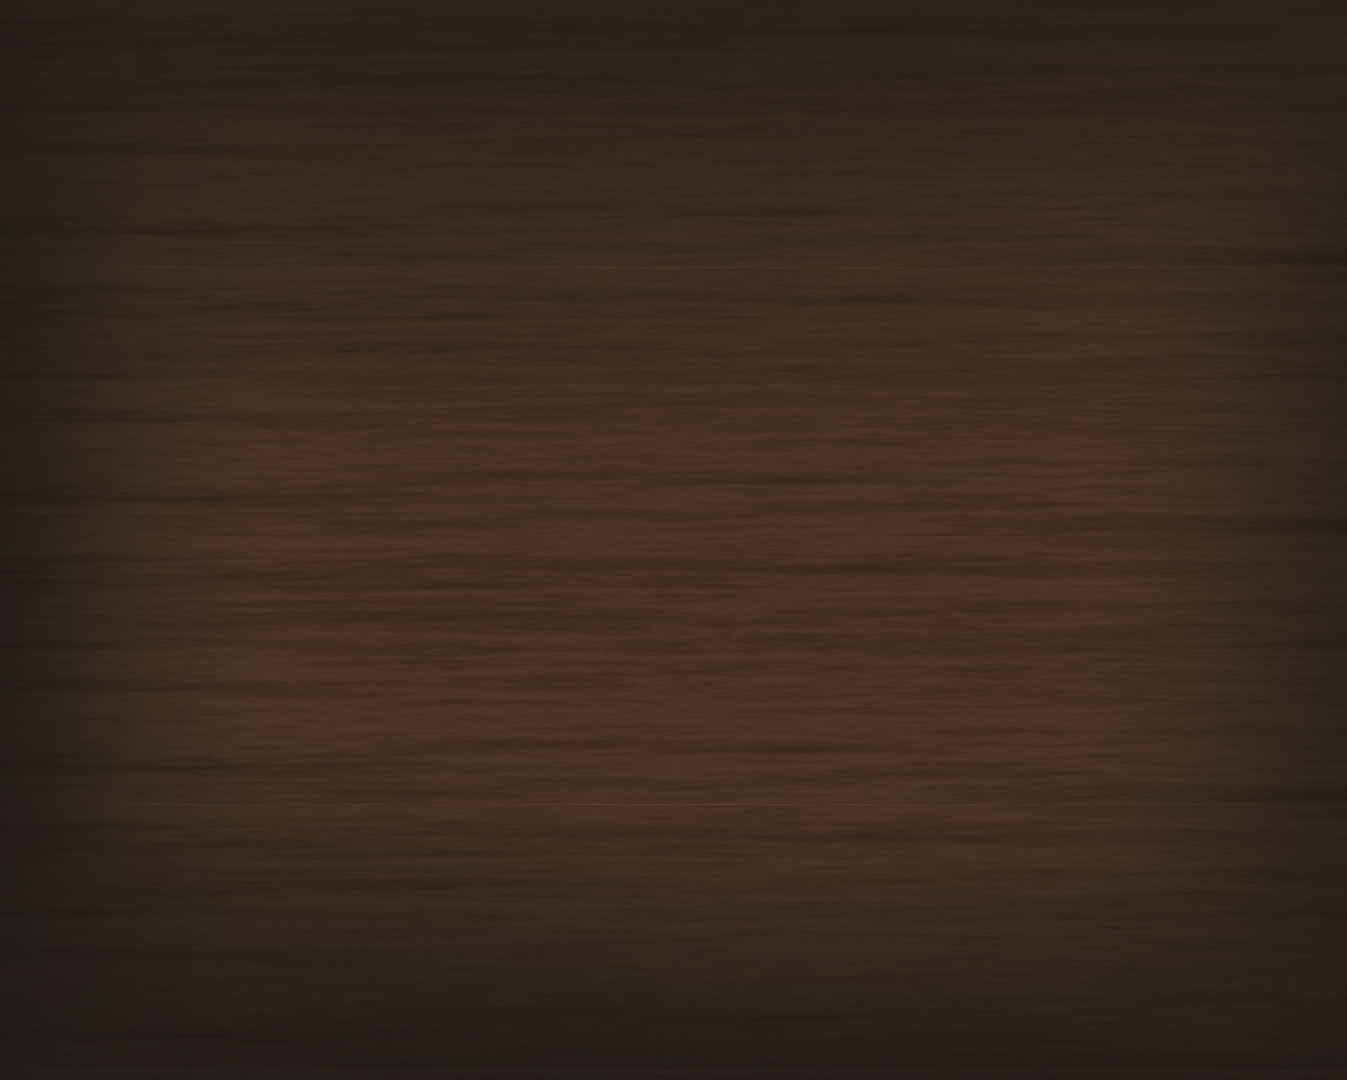
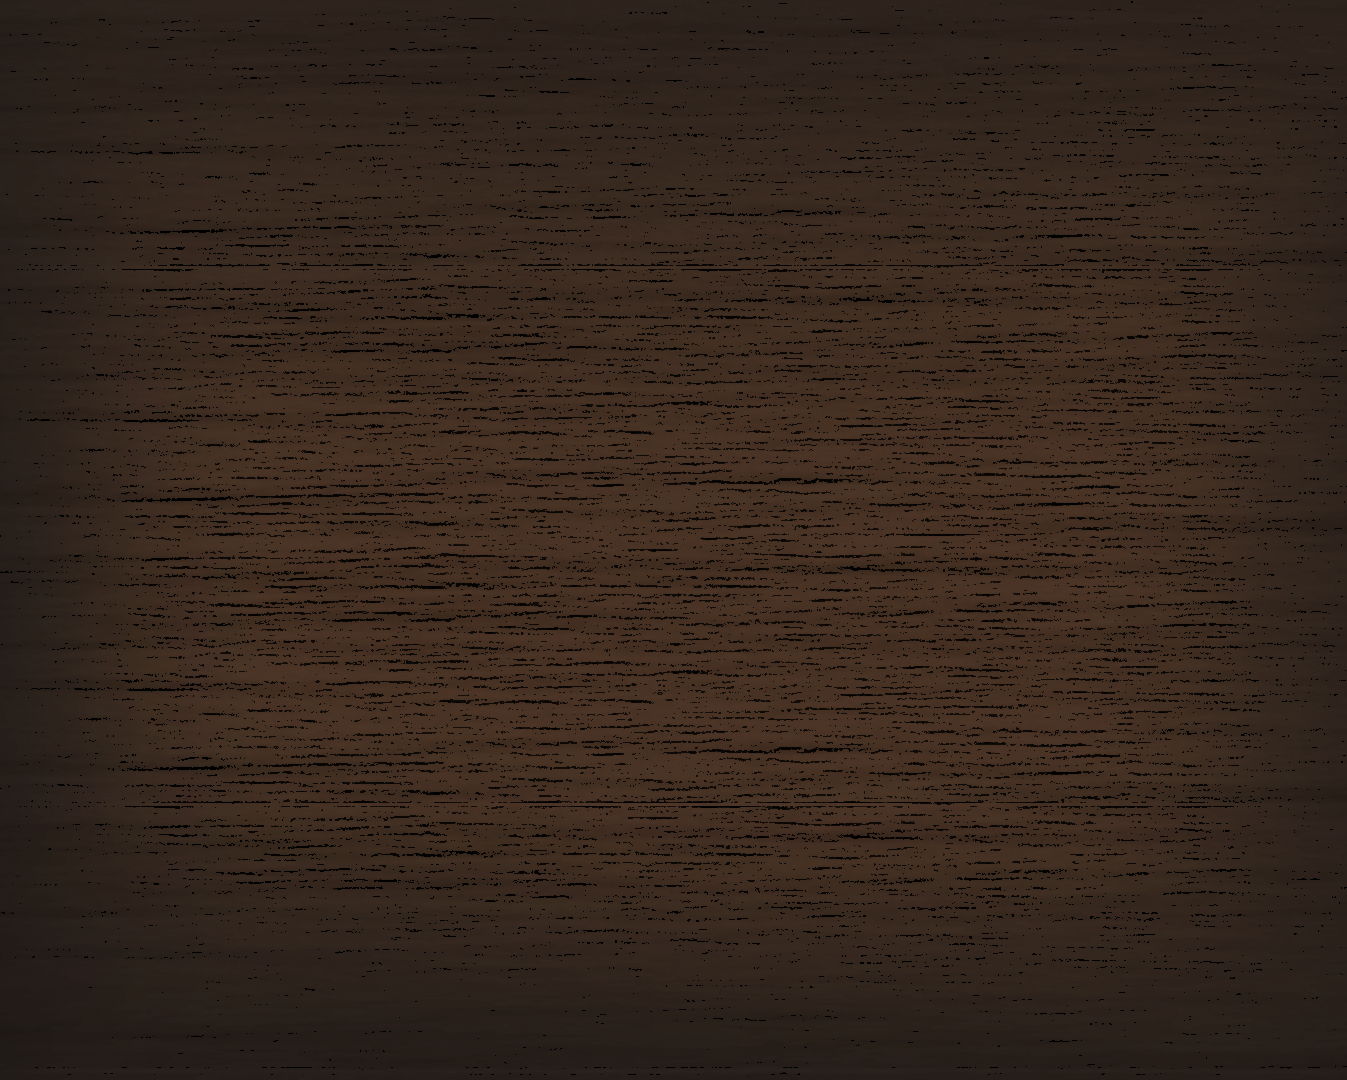
Change images to goofy

diff --git a/Components/Pages/Input/Components/InputChoiceTitle.razor.css b/Components/Pages/Input/Components/InputChoiceTitle.razor.css
@@ -1,0 +1,21 @@
+div.title {
+    width: 40rem;
+    height: 5rem;
+    background: url("background/title.png") no-repeat;
+    background-size: contain;
+    
+    margin-left: auto;
+    margin-right: auto;
+    margin-top: 2rem;
+    
+    
+    display: flex;
+    justify-content: center;
+    align-items: center;
+}
+
+div.title h1 {
+    text-align: center;
+    color: white;
+    margin: 0;
+}

diff --git a/Components/Shared/OldButton.razor.css b/Components/Shared/OldButton.razor.css
@@ -1,4 +1,4 @@
-div.vintage_button {
+div.old_button {
     width: 10rem;
     height: 3.5rem;
     
@@ -14,6 +14,12 @@ div.vintage_button {
     cursor: pointer;
 }
 
-div.vintage_button:hover {
+div.old_button:hover {
     filter: brightness(80%);
+}
+
+div.buttons {
+    display: flex;
+    flex-direction: row;
+    justify-content: center;
 }

diff --git a/Components/Pages/Input/InputMethods/FilePickerInput/FilePickerInput.razor.css b/Components/Pages/Input/InputMethods/FilePickerInput/FilePickerInput.razor.css
@@ -1,3 +1,7 @@
+div.file-picker h1 {
+    padding-left: 2rem;
+}
+
 div.files {
     display: flex;
     flex-direction: column;
